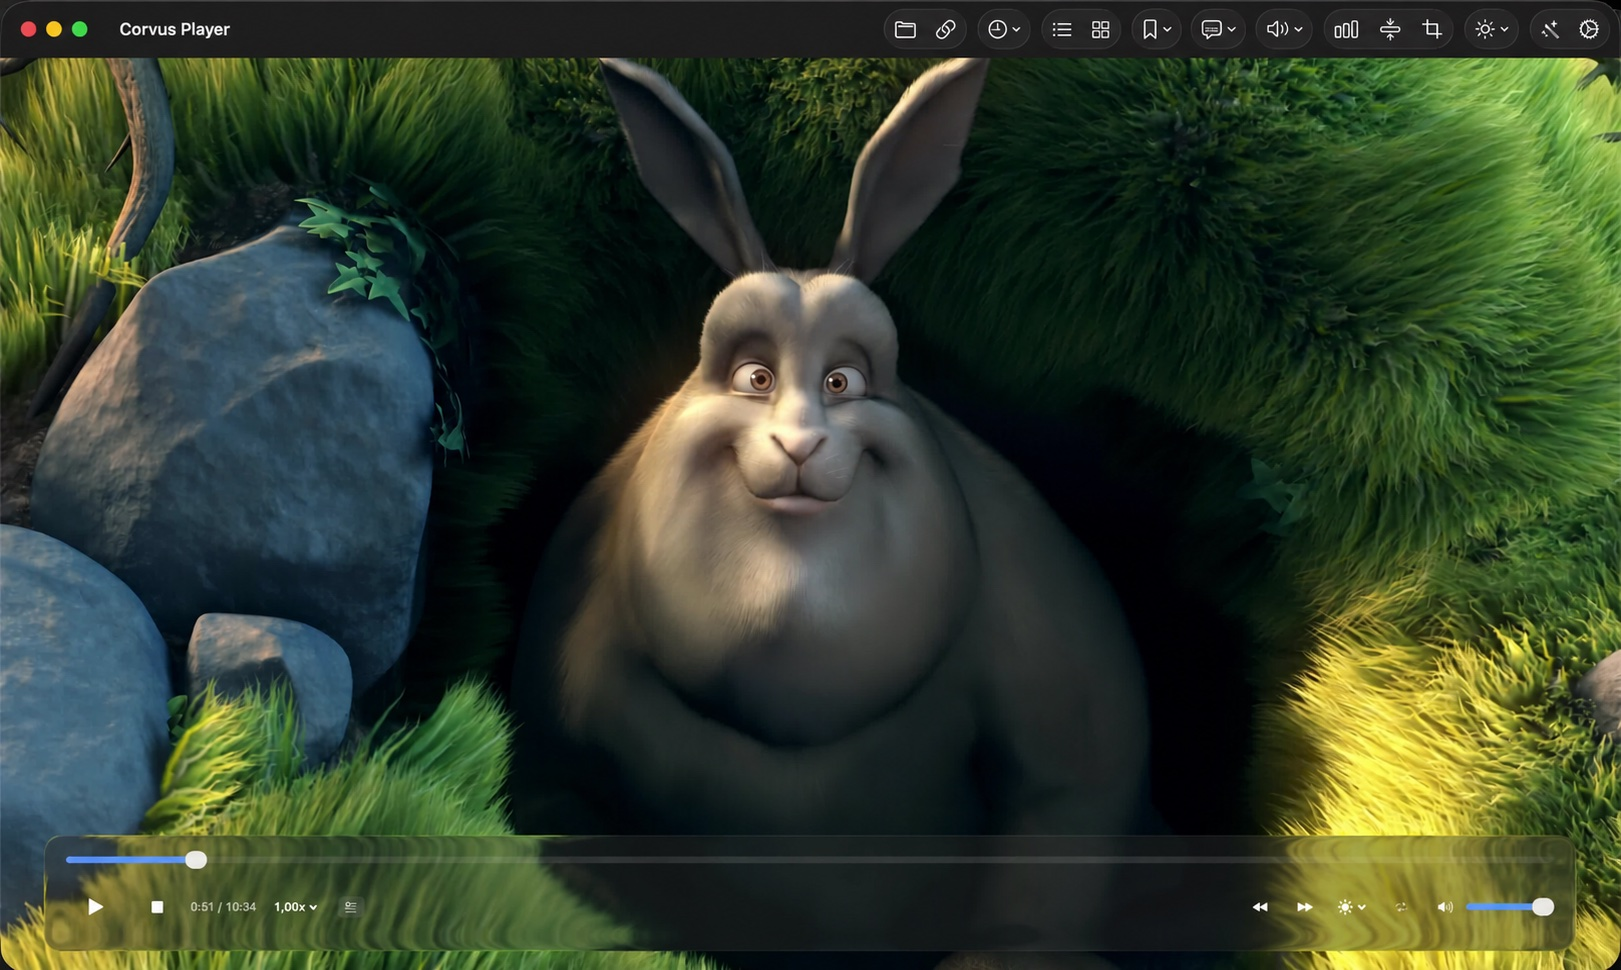
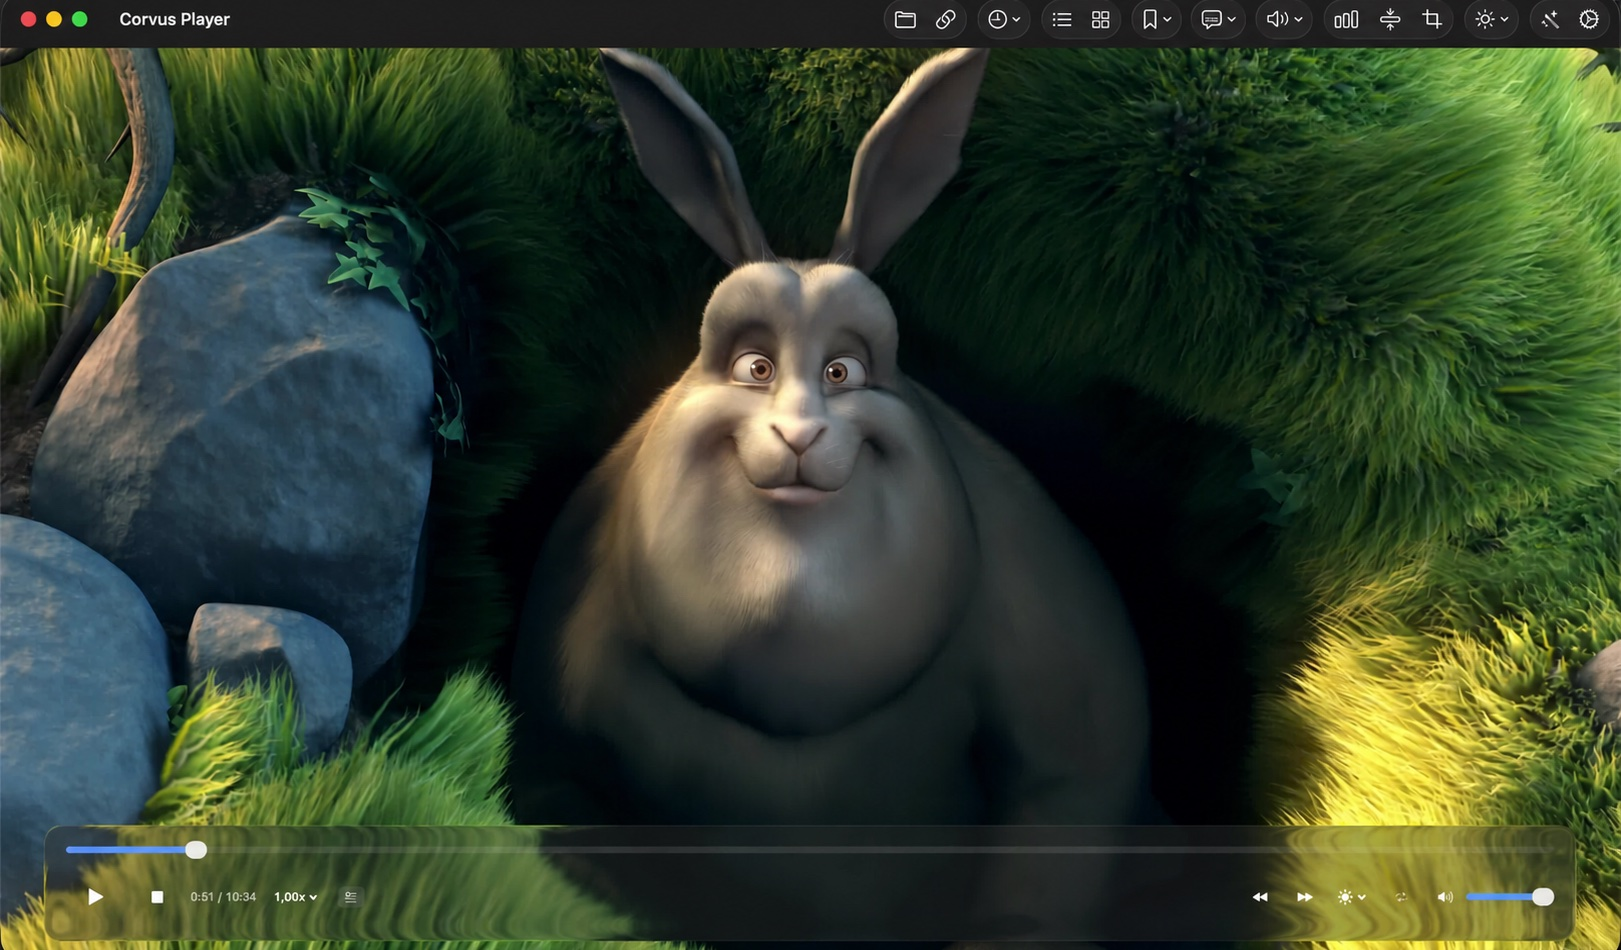
Fix hero: crop white bar at bottom, remove border-radius clipping corners

diff --git a/docs/index.html b/docs/index.html
@@ -143,7 +143,6 @@
         .hero-showcase img {
             width: 100%;
             height: auto;
-            border-radius: 12px;
         }
 
         .section-label {
@@ -519,7 +518,6 @@
             nav { padding: 14px 16px; }
             .nav-links { gap: 16px; }
             .hero-showcase { margin-top: 48px; }
-            .hero-showcase img { border-radius: 10px; }
         }
     </style>
 </head>
@@ -549,7 +547,7 @@
         <span class="hero-free">Free forever &middot; macOS 14.0+ &middot; Apple Silicon &amp; Intel</span>
 
         <div class="hero-showcase">
-            <img src="images/hero.jpg" alt="Corvus Player playing Big Buck Bunny with floating controls" loading="eager" fetchpriority="high" width="1621" height="970" decoding="async">
+            <img src="images/hero.jpg" alt="Corvus Player playing Big Buck Bunny with floating controls" loading="eager" fetchpriority="high" width="1621" height="950" decoding="async">
         </div>
     </section>
 
